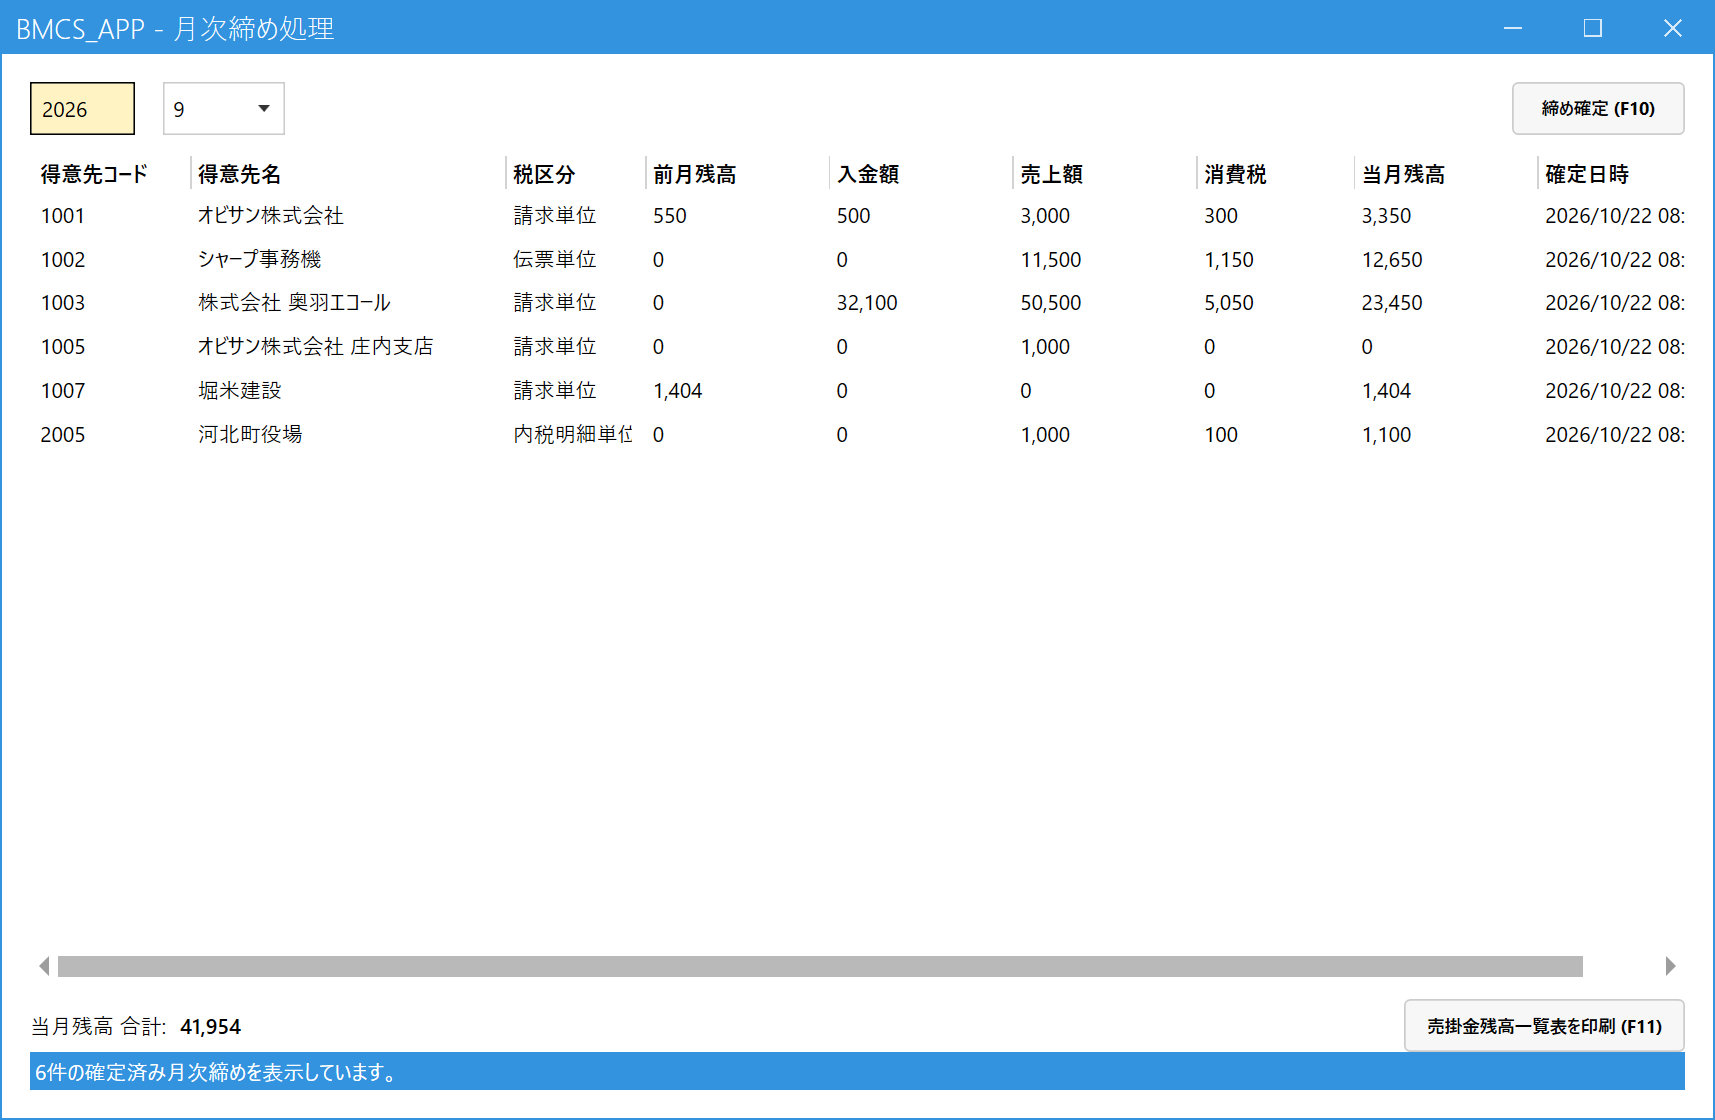
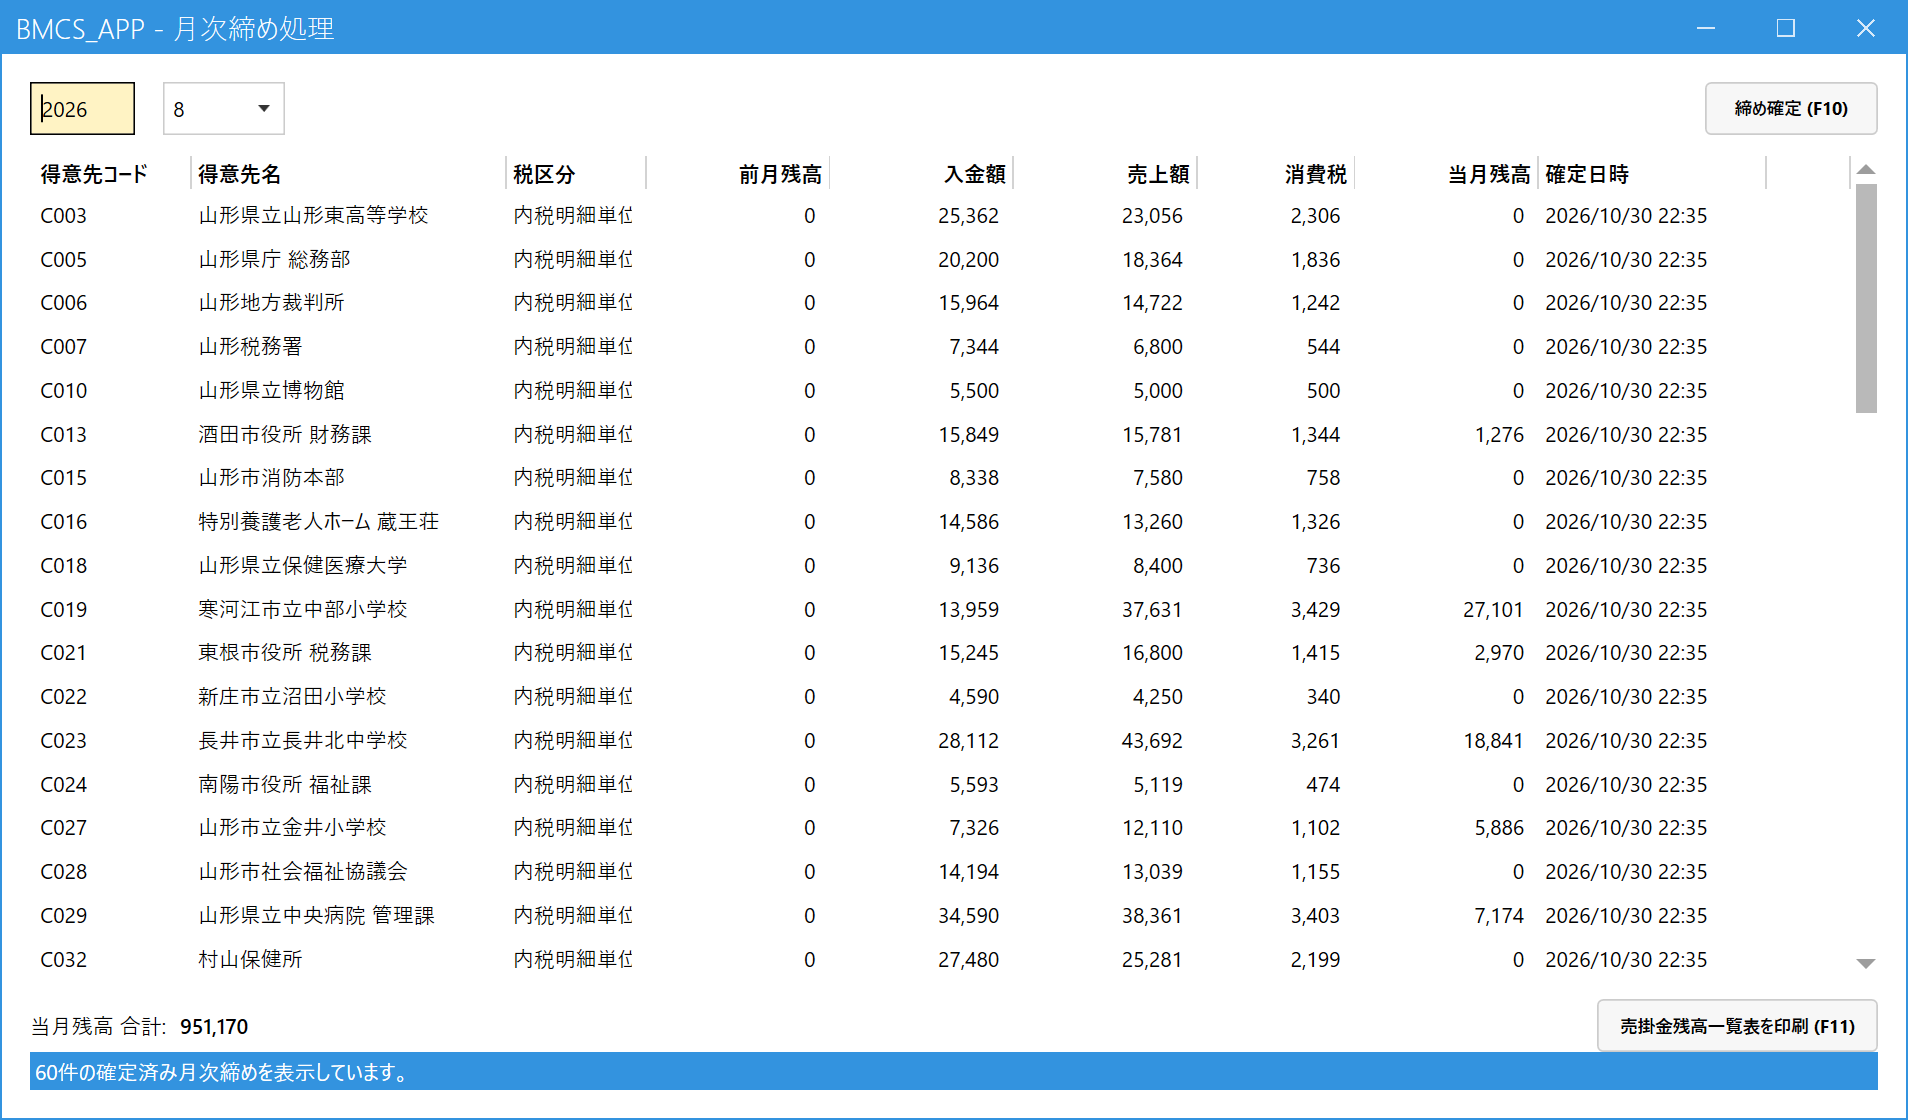
月次締め処理・解除処理の一覧で数字の列を右詰にする
前月残高・入金額・売上額・消費税・当月残高を、見出しも含めて右詰にした。
月次締め処理は右詰にすると確定日時の手前で列が画面外に出るため、全列が収まる幅
（1090）に広げた。操作マニュアルの画面画像と注釈座標も合わせた。

diff --git a/src/bmcs_app/Views/Closing/MonthlyClosingWindow.xaml b/src/bmcs_app/Views/Closing/MonthlyClosingWindow.xaml
@@ -4,7 +4,7 @@
                  xmlns:mah="http://metro.mahapps.com/winfx/xaml/controls"
                  xmlns:beh="clr-namespace:bmcs_app.Behaviors"
                  Title="bmcs_app - 月次締め処理"
-                 Height="640" Width="980"
+                 Height="640" Width="1090"
                  WindowStartupLocation="CenterScreen"
                  WindowTransitionsEnabled="False">
     <!--
@@ -54,11 +54,41 @@
                             </DataTemplate>
                         </GridViewColumn.CellTemplate>
                     </GridViewColumn>
-                    <GridViewColumn Header="前月残高" Width="105" DisplayMemberBinding="{Binding PreviousBalance, StringFormat={}{0:N0}}" />
-                    <GridViewColumn Header="入金額" Width="105" DisplayMemberBinding="{Binding ReceiptAmount, StringFormat={}{0:N0}}" />
-                    <GridViewColumn Header="売上額" Width="105" DisplayMemberBinding="{Binding SalesAmount, StringFormat={}{0:N0}}" />
-                    <GridViewColumn Header="消費税" Width="90" DisplayMemberBinding="{Binding TaxAmount, StringFormat={}{0:N0}}" />
-                    <GridViewColumn Header="当月残高" Width="105" DisplayMemberBinding="{Binding ClosingBalance, StringFormat={}{0:N0}}" />
+                    <GridViewColumn Header="前月残高" Width="105" HeaderContainerStyle="{StaticResource RightAlignedColumnHeaderStyle}">
+                        <GridViewColumn.CellTemplate>
+                            <DataTemplate>
+                                <TextBlock Text="{Binding PreviousBalance, StringFormat={}{0:N0}}" HorizontalAlignment="Right" />
+                            </DataTemplate>
+                        </GridViewColumn.CellTemplate>
+                    </GridViewColumn>
+                    <GridViewColumn Header="入金額" Width="105" HeaderContainerStyle="{StaticResource RightAlignedColumnHeaderStyle}">
+                        <GridViewColumn.CellTemplate>
+                            <DataTemplate>
+                                <TextBlock Text="{Binding ReceiptAmount, StringFormat={}{0:N0}}" HorizontalAlignment="Right" />
+                            </DataTemplate>
+                        </GridViewColumn.CellTemplate>
+                    </GridViewColumn>
+                    <GridViewColumn Header="売上額" Width="105" HeaderContainerStyle="{StaticResource RightAlignedColumnHeaderStyle}">
+                        <GridViewColumn.CellTemplate>
+                            <DataTemplate>
+                                <TextBlock Text="{Binding SalesAmount, StringFormat={}{0:N0}}" HorizontalAlignment="Right" />
+                            </DataTemplate>
+                        </GridViewColumn.CellTemplate>
+                    </GridViewColumn>
+                    <GridViewColumn Header="消費税" Width="90" HeaderContainerStyle="{StaticResource RightAlignedColumnHeaderStyle}">
+                        <GridViewColumn.CellTemplate>
+                            <DataTemplate>
+                                <TextBlock Text="{Binding TaxAmount, StringFormat={}{0:N0}}" HorizontalAlignment="Right" />
+                            </DataTemplate>
+                        </GridViewColumn.CellTemplate>
+                    </GridViewColumn>
+                    <GridViewColumn Header="当月残高" Width="105" HeaderContainerStyle="{StaticResource RightAlignedColumnHeaderStyle}">
+                        <GridViewColumn.CellTemplate>
+                            <DataTemplate>
+                                <TextBlock Text="{Binding ClosingBalance, StringFormat={}{0:N0}}" HorizontalAlignment="Right" />
+                            </DataTemplate>
+                        </GridViewColumn.CellTemplate>
+                    </GridViewColumn>
                     <GridViewColumn Header="確定日時" Width="130" DisplayMemberBinding="{Binding ConfirmedAt, StringFormat={}{0:yyyy/MM/dd HH:mm}}" />
                 </GridView>
             </ListView.View>

diff --git a/src/bmcs_app/Views/Closing/MonthlyClosingReleaseWindow.xaml b/src/bmcs_app/Views/Closing/MonthlyClosingReleaseWindow.xaml
@@ -51,11 +51,41 @@
                             </DataTemplate>
                         </GridViewColumn.CellTemplate>
                     </GridViewColumn>
-                    <GridViewColumn Header="前月残高" Width="100" DisplayMemberBinding="{Binding PreviousBalance, StringFormat={}{0:N0}}" />
-                    <GridViewColumn Header="入金額" Width="100" DisplayMemberBinding="{Binding ReceiptAmount, StringFormat={}{0:N0}}" />
-                    <GridViewColumn Header="売上額" Width="100" DisplayMemberBinding="{Binding SalesAmount, StringFormat={}{0:N0}}" />
-                    <GridViewColumn Header="消費税" Width="90" DisplayMemberBinding="{Binding TaxAmount, StringFormat={}{0:N0}}" />
-                    <GridViewColumn Header="当月残高" Width="100" DisplayMemberBinding="{Binding ClosingBalance, StringFormat={}{0:N0}}" />
+                    <GridViewColumn Header="前月残高" Width="100" HeaderContainerStyle="{StaticResource RightAlignedColumnHeaderStyle}">
+                        <GridViewColumn.CellTemplate>
+                            <DataTemplate>
+                                <TextBlock Text="{Binding PreviousBalance, StringFormat={}{0:N0}}" HorizontalAlignment="Right" />
+                            </DataTemplate>
+                        </GridViewColumn.CellTemplate>
+                    </GridViewColumn>
+                    <GridViewColumn Header="入金額" Width="100" HeaderContainerStyle="{StaticResource RightAlignedColumnHeaderStyle}">
+                        <GridViewColumn.CellTemplate>
+                            <DataTemplate>
+                                <TextBlock Text="{Binding ReceiptAmount, StringFormat={}{0:N0}}" HorizontalAlignment="Right" />
+                            </DataTemplate>
+                        </GridViewColumn.CellTemplate>
+                    </GridViewColumn>
+                    <GridViewColumn Header="売上額" Width="100" HeaderContainerStyle="{StaticResource RightAlignedColumnHeaderStyle}">
+                        <GridViewColumn.CellTemplate>
+                            <DataTemplate>
+                                <TextBlock Text="{Binding SalesAmount, StringFormat={}{0:N0}}" HorizontalAlignment="Right" />
+                            </DataTemplate>
+                        </GridViewColumn.CellTemplate>
+                    </GridViewColumn>
+                    <GridViewColumn Header="消費税" Width="90" HeaderContainerStyle="{StaticResource RightAlignedColumnHeaderStyle}">
+                        <GridViewColumn.CellTemplate>
+                            <DataTemplate>
+                                <TextBlock Text="{Binding TaxAmount, StringFormat={}{0:N0}}" HorizontalAlignment="Right" />
+                            </DataTemplate>
+                        </GridViewColumn.CellTemplate>
+                    </GridViewColumn>
+                    <GridViewColumn Header="当月残高" Width="100" HeaderContainerStyle="{StaticResource RightAlignedColumnHeaderStyle}">
+                        <GridViewColumn.CellTemplate>
+                            <DataTemplate>
+                                <TextBlock Text="{Binding ClosingBalance, StringFormat={}{0:N0}}" HorizontalAlignment="Right" />
+                            </DataTemplate>
+                        </GridViewColumn.CellTemplate>
+                    </GridViewColumn>
                     <GridViewColumn Header="確定日時" Width="130" DisplayMemberBinding="{Binding ConfirmedAt, StringFormat={}{0:yyyy/MM/dd HH:mm}}" />
                     <GridViewColumn Header="備考" Width="260" DisplayMemberBinding="{Binding BlockReason}" />
                 </GridView>

diff --git a/docs/user-manual-jp/monthly-closing.html b/docs/user-manual-jp/monthly-closing.html
@@ -25,9 +25,9 @@
 <figure data-ann='[
  {"r":[30,82,105,53],"n":1},
  {"r":[163,82,122,53],"n":2},
- {"r":[30,159,1650,330],"n":3,"b":[900,700]},
- {"r":[1512,82,173,53],"n":4,"b":[1400,200]},
- {"r":[1404,999,281,53],"n":5,"b":[1250,900]}]'>
+ {"r":[30,159,1848,330],"n":3,"b":[900,700]},
+ {"r":[1705,82,173,53],"n":4,"b":[1593,200]},
+ {"r":[1597,999,281,53],"n":5,"b":[1443,900]}]'>
   <div class="frame"><img src="images/mclose-01-main.png" alt="月次締め処理画面"></div>
   <figcaption>月次締め処理画面（確定済みの月次締めの一覧）</figcaption>
 </figure>
